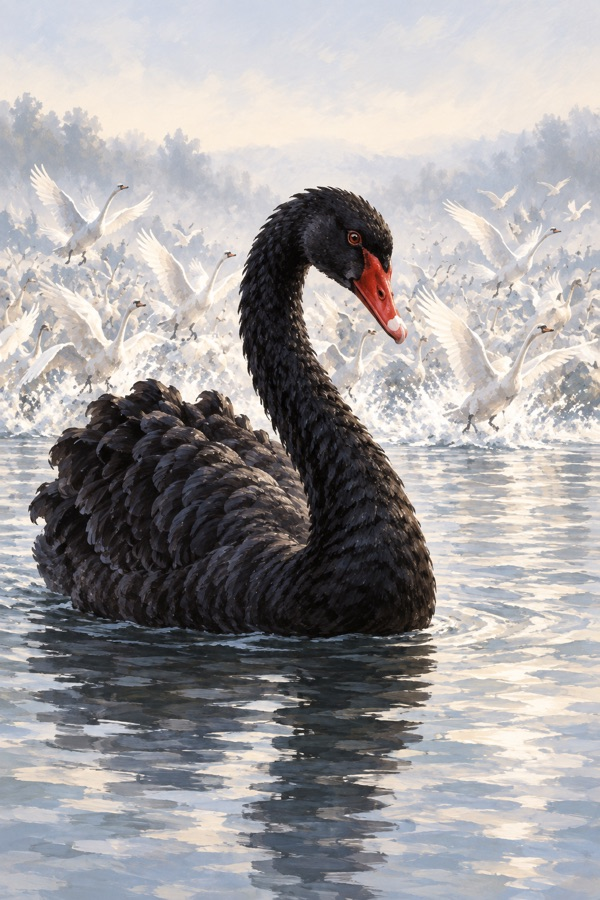
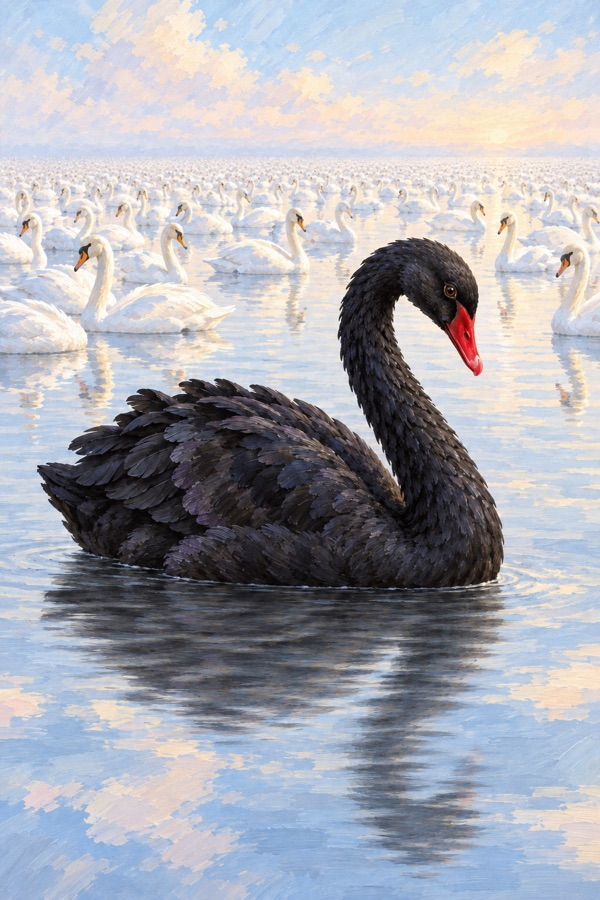
Art: Black Swan, the one black swan among thousands of white; portrait, strip and card window set
Claude-Session: https://claude.ai/code/session_015ppVnLKWvxNq9Y8wVq8ZJ3

diff --git a/animal_kingdom/web/static/art.js b/animal_kingdom/web/static/art.js
@@ -20,7 +20,7 @@ export const CROP = {
   armadillo: [.72, .38, .6], chinchilla: [.68, .38, .7], flying_squirrel: [.62, .5, .7], porcupine: [.35, .48, .62], fathom: [.5, .42, .8],
   greywhisker: [.5, .33, .65], rat_king: [.52, .35, .8], scrooge: [.62, .45, .62],
   queen_honoria: [.6, .38, .7], queen_marabunta: [.6, .45, .75], vesper: [.6, .42, .72], falstaff: [.52, .37, .95],
-  eon: [.6, .33, .7], ember: [.55, .3, .75], aurum: [.52, .5, .85], omen: [.5, .42, .75], anaconda: [.49, .6, .62], egg_eater: [.71, .33, .62], snake_egg: [.55, .46, .62], bird_egg: [.52, .42, .82],
+  eon: [.6, .33, .7], ember: [.55, .3, .75], aurum: [.52, .5, .85], omen: [.58, .44, .82], anaconda: [.49, .6, .62], egg_eater: [.71, .33, .62], snake_egg: [.55, .46, .62], bird_egg: [.52, .42, .82],
   dire_wolf: [.55, .33, .62], dingo: [.7, .27, .6], fox: [.62, .42, .7], african_wild_dog: [.7, .3, .55], dog: [.66, .3, .6],
   pup: [.55, .36, .72], outrider: [.62, .36, .75], red_wolf: [.66, .36, .66], hyena: [.5, .38, .6], bush_dog: [.64, .33, .6],
   lobo: [.55, .42, .75], raksha: [.64, .33, .6], clarion: [.6, .22, .7], alpha: [.56, .36, .8], poppy: [.55, .36, .72], rusty: [.45, .36, .72],
@@ -31,7 +31,7 @@ export const STRIP = {
   prince_leo: [.72, .3, 1.2], princess_lea: [.34, .34, 1.2], king_theron: [.6, .28, 1], queen_adira: [.62, .22, 1.2], jaguar: [.7, .36, 1], serval: [.66, .48, 1.3],
   snow_leopard: [.66, .38, 1], black_panther: [.7, .43, 1], lion: [.42, .3, 1.2], lynx: [.52, .24, 1.3], caracal: [.47, .28, 1.5], tiger: [.82, .54, 1],
   cougar: [.73, .38, 1.1], house_cat: [.43, .37, 1.5], eon: [.62, .29, 1], goliath: [.62, .55, 1.2], ember: [.75, .17, 1.5], aurum: [.6, .45, 1.2], anaconda: [.5, .55, 1.2], egg_eater: [.76, .32, 1.3], snake_egg: [.58, .45, 1.3], bird_egg: [.6, .33, 1.2],
-  rattlesnake: [.53, .35, 1.3], omen: [.6, .28, 1.7], stoop: [.58, .47, 1.8], eagle: [.63, .43, 1.8], owl: [.6, .24, 1.2], taipan: [.6, .3, 1],
+  rattlesnake: [.53, .35, 1.3], omen: [.72, .3, 1.7], stoop: [.58, .47, 1.8], eagle: [.63, .43, 1.8], owl: [.6, .24, 1.2], taipan: [.6, .3, 1],
   viper: [.63, .35, 1], magpie: [.73, .34, 1.7], black_mamba: [.58, .3, 1], raven: [.77, .47, 1.7], queen_marabunta: [.8, .53, 1.7], vesper: [.66, .47, 1.1],
   queen_honoria: [.62, .32, 1.2], falstaff: [.6, .33, 1.1], nurse_bee: [.58, .45, 1.2], nurse_bumblebee: [.65, .4, 1.1], termite_king: [.73, .47, 1], termite_queen: [.45, .37, 1],
   queen_bee: [.65, .42, 1.3], guard_hornet: [.43, .4, 1], soldier_ant: [.55, .34, 1.3], worker_ant: [.52, .32, 1], worker_wasp: [.62, .4, 1.1], worker_bee: [.6, .42, 1.2],
@@ -58,7 +58,7 @@ export const FULL = {
   falcon: .385, falstaff: .36, fathom: .405, flying_squirrel: .385, fox: .45, gale: .46, goliath: .45, gopher: .475,
   gray_wolf: .475, greywhisker: .415, grizzly_bear: .425, groundhog: .385, guard_hornet: .465, hamster: .455, hedgehog: .435,
   hornet: .425, house_cat: .435, hyena: .475, jaguar: .455, king_theron: .305, lemming: .445, lion: .355, lobo: .45,
-  lynx: .395, magpie: .375, methuselah: .405, mouse: .455, muskrat: .48, nurse_bumblebee: .445, omen: .465, outrider: .365,
+  lynx: .395, magpie: .375, methuselah: .405, mouse: .455, muskrat: .48, nurse_bumblebee: .445, omen: .48, outrider: .365,
   owl: .385, pestis: .405, poppy: .355, porcupine: .435, prince_leo: .365, princess_lea: .395, pup: .365, queen_adira: .375,
   queen_bee: .425, queen_marabunta: .455, raksha: .425, rat: .475, rat_king: .365, rattlesnake: .555, raven: .405,
   red_wolf: .445, rhinoceros: .395, rusty: .345, scrooge: .485, serval: .5, sirocco: .415, skunk: .395, sloth: .4,
